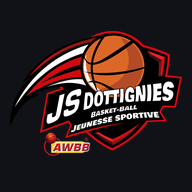
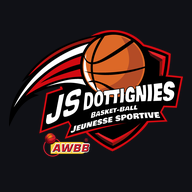
Add files via upload

diff --git a/index.html b/index.html
@@ -1,9 +1,9 @@
-<!doctype html><html lang="fr"><head><meta charset="utf-8"><meta name="viewport" content="width=device-width,initial-scale=1,viewport-fit=cover"><meta name="theme-color" content="#111217"><meta name="description" content="Gestion des matchs, des parents et des déplacements — JS Dottignies"><title>JS Dottignies · Équipe U14</title><link rel="manifest" href="manifest.webmanifest"><link rel="apple-touch-icon" href="assets/icon-192.png"><link rel="icon" href="assets/logo.svg" type="image/svg+xml"><link rel="stylesheet" href="styles.css?v=20261108v6"></head><body>
-<div class="shell"><aside class="sidebar"><a href="#" class="brand"><img src="assets/logo.svg" alt="JS Dottignies"><span><strong>JS DOTTIGNIES</strong><small>ESPACE ÉQUIPE · U14</small></span></a><nav class="navigation"><button data-view="matches" class="nav-item active"><span>▦</span> Calendrier</button><button data-view="transport" class="nav-item"><span>🚗</span> Covoiturage</button><button data-view="team" class="nav-item admin-only" hidden><span>♙</span> Effectif & parents</button></nav><div class="sidebar-bottom"><span class="side-dot"></span> Saison 2026–2027</div></aside>
-<div class="main-wrap"><header class="topbar"><div class="mobile-brand"><img src="assets/logo.svg" alt=""><strong>JS DOTTIGNIES</strong></div><span id="roleBadge" class="badge">Connexion requise</span><div class="user-box"><span id="userEmail"></span><button id="logout" class="button subtle" hidden>Déconnexion</button></div></header>
+<!doctype html><html lang="fr"><head><meta charset="utf-8"><meta name="viewport" content="width=device-width,initial-scale=1,viewport-fit=cover"><meta name="theme-color" content="#111217"><meta name="description" content="Gestion des matchs, des parents et des déplacements — JS Dottignies"><title>JS Dottignies · Équipe U14</title><link rel="manifest" href="manifest.webmanifest"><link rel="apple-touch-icon" href="assets/icon-192.png"><link rel="icon" href="assets/icon-192.png" type="image/png"><link rel="stylesheet" href="styles.css?v=20261108v7logo"></head><body>
+<div class="shell"><aside class="sidebar"><a href="#" class="brand"><img src="assets/logo-officiel.png" alt="JS Dottignies"><span><strong>JS DOTTIGNIES</strong><small>ESPACE ÉQUIPE · U14</small></span></a><nav class="navigation"><button data-view="matches" class="nav-item active"><span>▦</span> Calendrier</button><button data-view="transport" class="nav-item"><span>🚗</span> Covoiturage</button><button data-view="team" class="nav-item admin-only" hidden><span>♙</span> Effectif & parents</button></nav><div class="sidebar-bottom"><span class="side-dot"></span> Saison 2026–2027</div></aside>
+<div class="main-wrap"><header class="topbar"><div class="mobile-brand"><img src="assets/logo-officiel.png" alt=""><strong>JS DOTTIGNIES</strong></div><span id="roleBadge" class="badge">Connexion requise</span><div class="user-box"><span id="userEmail"></span><button id="logout" class="button subtle" hidden>Déconnexion</button></div></header>
 <main class="content"><div id="setup" class="setup" hidden><h2>Configurer Supabase</h2><p>Copiez <code>config.example.js</code> en <code>config.js</code>, renseignez votre URL et votre clé publique puis déployez.</p></div>
-<section id="login" class="login-panel" hidden><div class="login-crest"><img src="assets/logo.svg" alt="JS"></div><span class="eyebrow">BIENVENUE DANS L'ÉQUIPE</span><h1>Tout le basket.<br><em>Au même endroit.</em></h1><p>Parents : connectez-vous avec votre identifiant et votre code personnel, sans e-mail.</p><div class="parent-tabs"><button id="parentLoginTab" class="button primary small" type="button">Connexion parent</button> <button id="parentRegisterTab" class="button small" type="button">Première inscription</button></div><form id="loginForm" class="login-form"><label for="parentUsername">Identifiant parent</label><input id="parentUsername" placeholder="Ex. papahector" pattern="[a-zA-Z0-9_-]{4,24}" minlength="4" maxlength="24" autocomplete="username" required><label for="parentPassword">Code personnel</label><div class="inline-form"><input id="parentPassword" type="password" minlength="8" autocomplete="current-password" placeholder="Minimum 8 caractères" required><button class="button primary" type="submit">Se connecter →</button></div></form><form id="registerForm" class="login-form" hidden><label for="registerName">Votre prénom et nom</label><input id="registerName" maxlength="100" minlength="2" required placeholder="Votre nom"><label for="registerChild">Votre enfant</label><select id="registerChild" required><option value="">Choisir son enfant</option></select><label for="registerRelation">Vous êtes</label><select id="registerRelation" required><option value="papa">Papa</option><option value="maman">Maman</option></select><label for="registerUsername">Choisissez un identifiant</label><input id="registerUsername" pattern="[a-zA-Z0-9_-]{4,24}" minlength="4" maxlength="24" autocomplete="username" required placeholder="Ex. mamanhector"><label for="registerPassword">Code personnel (8 caractères minimum)</label><input id="registerPassword" type="password" minlength="8" autocomplete="new-password" required><button class="button primary" type="submit">Créer mon compte →</button><p class="hint">Aucune confirmation du coach. Maximum un Papa et une Maman par joueur. Les codes ne peuvent pas être récupérés par e-mail.</p></form><div class="login-separator"><span>ACCÈS DU COACH</span></div><p class="coach-intro">Le coach peut accéder à l'administration avec son code, sans recevoir d'e-mail.</p><form id="coachLoginForm" class="login-form"><label for="coachCode">Code administrateur du coach</label><div class="inline-form"><input id="coachCode" type="password" placeholder="2 lettres + 4 chiffres" autocomplete="current-password" inputmode="text" pattern="[A-Za-z]{2}[0-9]{4}" minlength="6" maxlength="6" title="Saisissez 2 lettres suivies de 4 chiffres" required><button class="button primary" type="submit">Accès coach →</button></div></form><p class="hint">Parents : identifiant et code personnel · Coach : code réservé. Ne partagez pas le code administrateur.</p></section>
+<section id="login" class="login-panel" hidden><div class="login-crest"><img src="assets/logo-officiel.png" alt="JS"></div><span class="eyebrow">BIENVENUE DANS L'ÉQUIPE</span><h1>Tout le basket.<br><em>Au même endroit.</em></h1><p>Parents : connectez-vous avec votre identifiant et votre code personnel, sans e-mail.</p><div class="parent-tabs"><button id="parentLoginTab" class="button primary small" type="button">Connexion parent</button> <button id="parentRegisterTab" class="button small" type="button">Première inscription</button></div><form id="loginForm" class="login-form"><label for="parentUsername">Identifiant parent</label><input id="parentUsername" placeholder="Ex. papahector" pattern="[a-zA-Z0-9_-]{4,24}" minlength="4" maxlength="24" autocomplete="username" required><label for="parentPassword">Code personnel</label><div class="inline-form"><input id="parentPassword" type="password" minlength="8" autocomplete="current-password" placeholder="Minimum 8 caractères" required><button class="button primary" type="submit">Se connecter →</button></div></form><form id="registerForm" class="login-form" hidden><label for="registerName">Votre prénom et nom</label><input id="registerName" maxlength="100" minlength="2" required placeholder="Votre nom"><label for="registerChild">Votre enfant</label><select id="registerChild" required><option value="">Choisir son enfant</option></select><label for="registerRelation">Vous êtes</label><select id="registerRelation" required><option value="papa">Papa</option><option value="maman">Maman</option></select><label for="registerUsername">Choisissez un identifiant</label><input id="registerUsername" pattern="[a-zA-Z0-9_-]{4,24}" minlength="4" maxlength="24" autocomplete="username" required placeholder="Ex. mamanhector"><label for="registerPassword">Code personnel (8 caractères minimum)</label><input id="registerPassword" type="password" minlength="8" autocomplete="new-password" required><button class="button primary" type="submit">Créer mon compte →</button><p class="hint">Aucune confirmation du coach. Maximum un Papa et une Maman par joueur. Les codes ne peuvent pas être récupérés par e-mail.</p></form><div class="login-separator"><span>ACCÈS DU COACH</span></div><p class="coach-intro">Le coach peut accéder à l'administration avec son code, sans recevoir d'e-mail.</p><form id="coachLoginForm" class="login-form"><label for="coachCode">Code administrateur du coach</label><div class="inline-form"><input id="coachCode" type="password" placeholder="2 lettres + 4 chiffres" autocomplete="current-password" inputmode="text" pattern="[A-Za-z]{2}[0-9]{4}" minlength="6" maxlength="6" title="Saisissez 2 lettres suivies de 4 chiffres" required><button class="button primary" type="submit">Accès coach →</button></div></form><p class="hint">Parents : identifiant et code personnel · Coach : code réservé. Ne partagez pas le code administrateur.</p></section>
 <section id="app" hidden><div class="hero"><div><span class="eyebrow">SAISON 2026 / 2027</span><h1 id="pageTitle">Calendrier <em>des matchs.</em></h1><p id="pageSubtitle">Suivez l'équipe, les convocations et l'organisation des rencontres.</p></div><div class="hero-art"><span class="basketball">◉</span><span class="hero-tag">JOUER ENSEMBLE</span></div></div><div id="familyPanel" class="family-panel" hidden></div><div class="metrics" id="metrics"></div><div id="matchesView" class="view"><div class="coach-calendar-actions admin-only" id="calendarCoachActions" hidden><button class="button primary" id="addMatchButton" type="button">+ Ajouter un match</button><button class="button" id="importMatchesButton" type="button">↑ Importer un calendrier Excel</button></div><div class="section-header"><div><h2>Prochaines rencontres</h2><p>Choisissez un match pour consulter les détails et les responsabilités.</p></div><select id="matchFilter" aria-label="Filtrer les matchs"><option value="all">Tous les matchs</option><option value="home">À domicile</option><option value="away">En déplacement</option></select></div><div id="matchList" class="match-list"></div></div><div id="transportView" class="view" hidden><div class="section-header"><div><h2>Organisation des déplacements</h2><p>Disponibilités et places proposées par les parents.</p></div></div><div id="transportList"></div></div><div id="teamView" class="view" hidden><div class="section-header"><div><h2>Joueurs et responsables</h2><p>Les parents s’inscrivent directement et sélectionnent leur enfant.</p></div></div><div id="pendingLinks"></div><div id="teamList"></div></div></section>
 </main><footer class="footer">JS DOTTIGNIES <span>•</span> U14 <span>•</span> ESPRIT D'ÉQUIPE</footer></div></div>
 <div id="modalRoot" hidden><div class="modal-shade" data-close="1"></div><div class="modal" role="dialog" aria-modal="true" aria-labelledby="modalTitle"><button class="modal-close" data-close="1" aria-label="Fermer">×</button><div id="modalBody"></div></div></div><div id="toast" class="toast" role="status"></div>
-<script src="config.js?v=20261108v6"></script><script src="https://cdn.jsdelivr.net/npm/@supabase/supabase-js@2/dist/umd/supabase.js"></script><script src="https://cdn.jsdelivr.net/npm/xlsx@0.18.5/dist/xlsx.full.min.js"></script><script src="app.js?v=20261108v6" defer></script></body></html>
+<script src="config.js?v=20261108v7logo"></script><script src="https://cdn.jsdelivr.net/npm/@supabase/supabase-js@2/dist/umd/supabase.js"></script><script src="https://cdn.jsdelivr.net/npm/xlsx@0.18.5/dist/xlsx.full.min.js"></script><script src="app.js?v=20261108v7logo" defer></script></body></html>

diff --git a/styles.css b/styles.css
@@ -21,3 +21,6 @@
 @media(max-width:650px){.family-panel{padding:15px}.parent-inline{display:grid;grid-template-columns:1fr}.request-line .button{width:auto}}
 
 .parent-tabs{display:flex;gap:8px;justify-content:center;margin:16px 0}.login-form[hidden]{display:none!important}.login-form>input,.login-form>select{display:block;width:100%;margin:6px 0 12px;padding:11px 12px;background:#292a34;color:white;border:1px solid #41424d;border-radius:8px}.login-form>label{display:block;margin-top:10px}.login-panel{max-width:580px}.login-panel form button{white-space:nowrap}
+
+/* V7 : logo officiel JS Dottignies, proportions préservées */
+.brand img{width:74px;height:58px;object-fit:contain;flex-shrink:0}.brand{gap:9px}.brand strong{font-size:20px}.login-crest img{width:170px;height:124px;object-fit:contain;margin-bottom:19px}.mobile-brand img{width:55px;height:40px;object-fit:contain}@media(max-width:1050px){.brand img{width:62px;height:50px}.brand strong{font-size:18px}}@media(max-width:760px){.login-crest img{width:150px;height:113px}}

diff --git a/service-worker.js b/service-worker.js
@@ -1,5 +1,5 @@
-const CACHE='jsdottignies-shell-v6';
-const SHELL=['./','./index.html','./styles.css','./assets/icon-192.png','./assets/icon-512.png','./assets/logo.svg'];
+const CACHE='jsdottignies-shell-v7-logo';
+const SHELL=['./','./index.html','./styles.css','./assets/icon-192.png','./assets/icon-512.png','./assets/logo-officiel.png'];
 self.addEventListener('install',e=>{e.waitUntil(caches.open(CACHE).then(c=>c.addAll(SHELL)).then(()=>self.skipWaiting()));});
 self.addEventListener('activate',e=>{e.waitUntil(caches.keys().then(keys=>Promise.all(keys.filter(k=>k!==CACHE).map(k=>caches.delete(k)))).then(()=>self.clients.claim()));});
 self.addEventListener('fetch',e=>{

diff --git a/README.md b/README.md
@@ -29,3 +29,13 @@ Cette méthode est une solution de transition adaptée à un petit groupe, **pas
 - Les comptes parents V5 utilisant de vraies adresses e-mail ne sont pas supprimés, mais n'utilisent pas la nouvelle connexion par identifiant; ils nécessitent une migration manuelle s'ils doivent être conservés.
 - Un même parent ayant plusieurs enfants nécessite une évolution ultérieure des associations.
 - Ce paquet a été vérifié syntaxiquement, **pas testé de bout en bout sur votre projet Supabase de production**.
+
+
+## V7 — Logo officiel du club (08/11/2026)
+- Ajoute `assets/logo-officiel.png` (fichier original fourni, sans redessin).
+- Remplace les icônes `assets/icon-192.png` et `assets/icon-512.png` par des déclinaisons du logo officiel sur fond noir.
+- Affiche ce logo dans l'en-tête latéral, l'en-tête mobile et la page de connexion.
+- Nouvelle version de cache du service worker : `v7-logo`.
+- GitHub : transférer **le contenu** de cette archive à la racine du dépôt, en préservant `config.js`.
+- Aucun SQL supplémentaire et aucun changement du code parent/coach.
+- Les icônes sur téléphones déjà installés peuvent nécessiter une réinstallation pour être actualisées.
